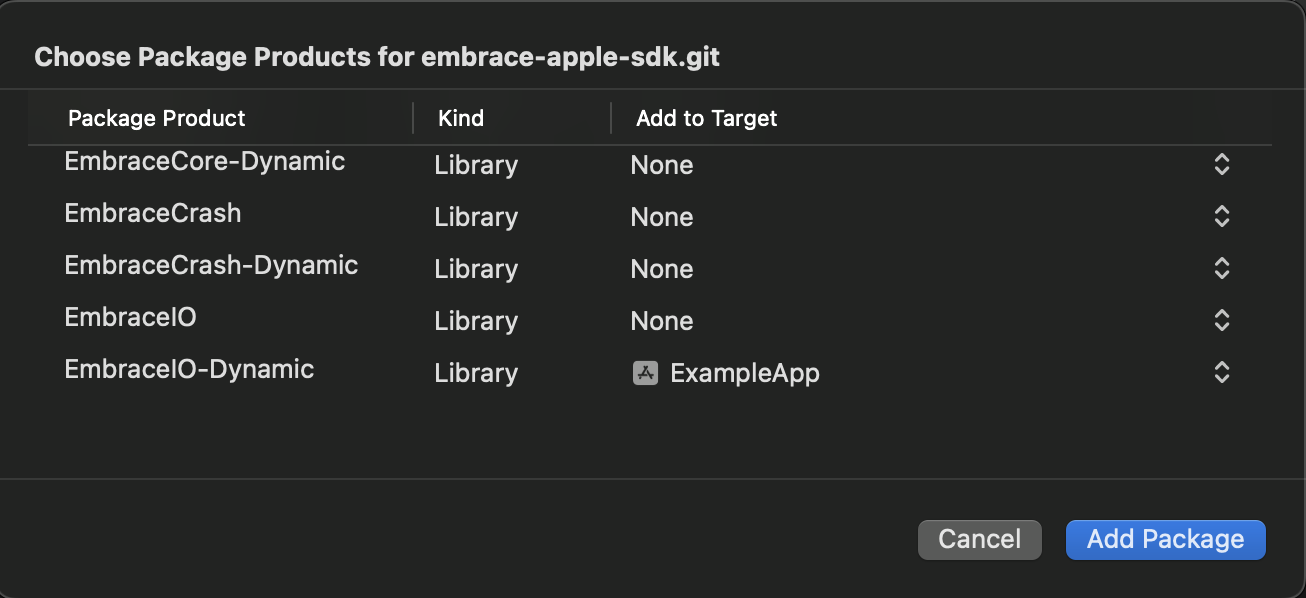
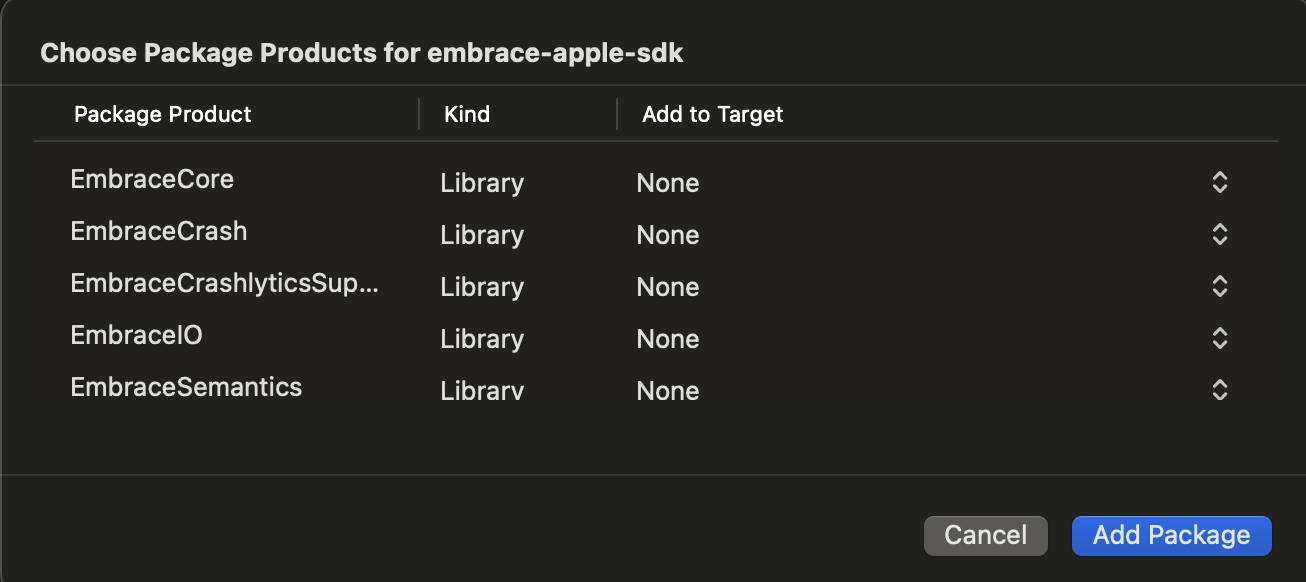
remove dynamic library instructions for getting started doc

diff --git a/GETTING_STARTED.md b/GETTING_STARTED.md
@@ -13,20 +13,20 @@ of an app using the Embrace SDK.
 ### Opening the BrandGame Example Project
 
 The BrandGame Xcode project can be found at
-[`Examples/BrandGame/BrandGame.xcodeproj`](./Examples/BrandGame/BrandGame.xcodeproj/). This is a great project to read through to get an idea on how the Embrace team would go about instrumenting
+[`Examples/BrandGame/BrandGame.xcodeproj`](./Examples/BrandGame/BrandGame.xcodeproj/). This is a great project to read through to get an idea of how the Embrace team would go about instrumenting
  an app.
 
 ### Defining the SPM Package dependency
 
 The BrandGame example app has the luxury of being within the same repo as the EmbraceIO package. So in its
-Xcode project settings it defines an SPM package dependency locally using a relative path.
+Xcode project settings, it defines an SPM package dependency locally using a relative path.
 
-For your project, you'll want to add a package dependency in Xcode. Select `File > Add Package Dependencies...`
+For your project, you'll want to add the Embrace Apple SDK package dependency in Xcode. Select `File > Add Package Dependencies...`
 and enter the repository URL `https://github.com/embrace-io/embrace-apple-sdk.git` into the search bar.
 
 Be sure to set the Dependency Rule to a recent release. When "Choose Package Products for embrace-apple-sdk" appears,
-Xcode will add all libraries to your application by default. For the most straightforward installation, select either
-`EmbraceIO` or `EmbraceIO-Dynamic` to add to your application target. For all other package products, do not add these
+Xcode will add all libraries to your application by default. For the most straightforward installation, select
+`EmbraceIO` to add to your application target. For all other package products, do not add these
 to your target by selecting `None`.
 
 ![Screenshot of Xcode 15.2 "Choose Package Products" pane](Documentation/assets/GettingStarted/package-products.png)
@@ -37,18 +37,18 @@ to your target by selecting `None`.
 
 Here's a quick summary of the 3 products this package contains:
 
-1. **EmbraceIO** - This is the recommend product to install for quick
+1. **EmbraceIO** - This is the recommended product for quick
  integration. It provides a convenience layer over `EmbraceCore` to
  simplify the setup interface.
-2. **EmbraceCore** - This is the implementation of the Embrace SDK.
+2. **EmbraceCore** - This is the main implementation of the Embrace SDK.
 If you'd like to customize your integration, this product allows you to.
 3. **EmbraceCrash** - This contains the Embrace Crash Reporter. We keep this
 as a separate target for those apps that may not want crash reporting enabled,
 or may want to use a separate crash reporter. It is included as a dependency of
 `EmbraceIO`, but not `EmbraceCore`.
+4. **EmbraceCrashlyticsSupport** - This product enables Crashlytics/Firebase as your primary crash reporter. Embrace will continue to mirror reports sent to Crashlytics, ensuring that data is still available in the Embrace Dashboard. This is an optional product for those who specifically need Crashlytics as their crash reporter but also want to leverage the Embrace Dashboard.
+5. **EmbraceSemantics** - This module contains constants and attributes used internally to extend OTel Semantic Conventions.
 
-We also distribute each product statically and dynamically. The `*-Dynamic` products should
-be used if you prefer dynamic libraries.
 
 ### Initializing the Embrace Client
 
